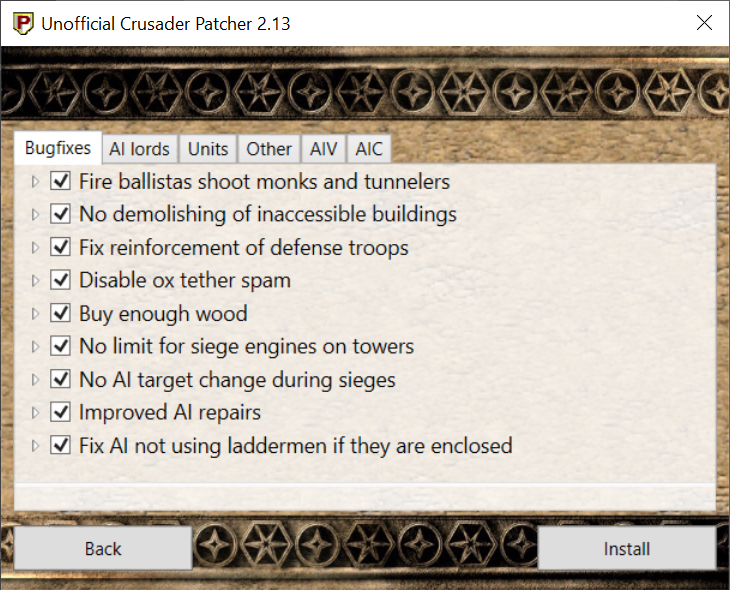
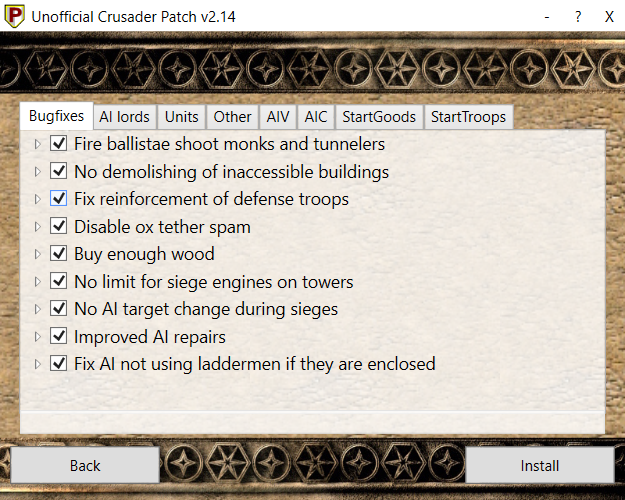
Update of screenshots on website and added to FAQ

diff --git a/getting-started.html b/getting-started.html
@@ -271,49 +271,158 @@
                 </div>
             </div>
             <div class="col-lg-6">
+                <h3>Visual Overview of Installation</h3>
+                <br>
+                <div id="carouselInstallation" class="carousel slide" data-ride="carousel">
+                    <ol class="carousel-indicators">
+                      <li data-target="#carouselInstallation" data-slide-to="0" class="active"></li>
+                      <li data-target="#carouselInstallation" data-slide-to="1"></li>
+                      <li data-target="#carouselInstallation" data-slide-to="2"></li>
+                    </ol>
+                    <div class="carousel-inner">
+                      <div class="carousel-item active">
+                        <div class="d-md-block text-center">
+                            <h4>Step 1: Language Selection</h4>
+                        </div>
+                        <img class="d-block" style="height: 350px; margin: auto;" src="assets/img/language-select.png" alt="First slide">
+                      </div>
+                      <div class="carousel-item">
+                        <div class="d-md-block text-center">
+                            <h4>Step 2: Installation Path Selection</h4>
+                        </div>
+                        <img class="d-block" style="height: 350px; margin: auto;" src="assets/img/window.png" alt="Second slide">
+                      </div>
+                      <div class="carousel-item">
+                        <div class="d-md-block text-center">
+                            <h4>Step 3: Select Your <a href="features.html">Features</a></h4>
+                        </div>
+                        <img class="d-block" style="height: 350px; margin: auto;" src="assets/img/bugfixes.png" alt="Third slide">
+                      </div>
+                    </div>
+                    <br><br>
+                    <a class="carousel-control-prev" href="#carouselInstallation" role="button" data-slide="prev">
+                      <span class="carousel-control-prev-icon" aria-hidden="true"></span>
+                      <span class="sr-only">Previous</span>
+                    </a>
+                    <a class="carousel-control-next" href="#carouselInstallation" role="button" data-slide="next">
+                      <span class="carousel-control-next-icon" aria-hidden="true"></span>
+                      <span class="sr-only">Next</span>
+                    </a>
+                  </div>
+
                 <h3>Visual Overview of Features</h3>
-                <h5><i>See <a href="features.html">features</a> for a full description of each feature</i></h5>
+                <h5><i>See the <a href="features.html">Features</a> page for a full description of each feature</i></h5>
                 <br>
-                <h4>Step 1: Language Selection</h4>
-                <img class="img-installation" id="language-select" src="assets/img/language-select.png">
 
-                <h4>Step 2: Installation Path Selection</h4>
-                <img class="img-installation" src="assets/img/window.png">
+                <div id="carouselFeatures" class="carousel slide" data-ride="carousel">
+                    <div class="carousel-inner">
+                      <div class="carousel-item active">
+                        <div class="d-md-block text-center">
+                            <h4>Bugfixes</h4>
+                        </div>
+                        <img class="d-block" style="height: 400px; margin: auto;" src="assets/img/bugfixes.png" alt="See Features page for description">
+                        <div class="d-md-block text-center">
+                            <h5><i>These include fixes to various gameplay bugs. Most users will want to select all options.</i></h5>
+                        </div>
+                      </div>
 
-                <h4>Step 3: Select Your Features</h4>
-                <h5><i>See <a href="features.html">features</a> for a description of each feature</i></h5>
-                <br>
-                <h4>Bugfixes</h4>
-                <h5><i>These include fixes to various gameplay bugs. Most users will want to select all options.</i></h5>
-                <img class="img-installation" src="assets/img/bugfixes.png">
+                      <div class="carousel-item">
+                        <div class="d-md-block text-center">
+                            <h4>AIV</h4>
+                        </div>
+                        <img class="d-block" style="height: 400px; margin: auto;" src="assets/img/aiv.png" alt="See AI Castle Introduction page for description">
+                        <div class="d-md-block text-center">
+                            <h5><i>Selecting a castle set here will change the way the AI characters build their castles in-game.</i></h5>
+                            <h5><i>See <a href="aiv/overview.html">AI Castle Introduction</a> for more about castle editing</i></h5>
+                        </div>
+                      </div>
 
-                <h4>AIV</h4>
-                <h5><i>Selecting a castle set here will change the way the AI characters build their castles in-game.</i></h5>
-                <h5><i>See <a href="aiv/overview.html">AI Castle Introduction</a> for more about castle editing</i></h5>
-                <img class="img-installation" src="assets/img/aiv.png">
+                      <div class="carousel-item">
+                        <div class="d-md-block text-center">
+                            <h4>AIC</h4>
+                        </div>
+                        <img class="d-block" style="height: 400px; margin: auto;" src="assets/img/aic.png" alt="See AI Character Introduction page for description">
+                        <div class="d-md-block text-center">
+                            <h5><i>Selecting an file here will change the in-game behaviour of the AI.
+                                The boxes that are coloured beige indicate user-provided aic files. 
+                                <br>
+                                vanilla is the AI behaviour as it is defined in Stronghold Crusader (without UCP).
+                                <br>
+                                You may hold Ctrl and click to select/deselect multiple aic files. 
+                                Note that if an AI Character is defined multiple times they are used in order of selection</i></h5>
+                          <h5><i>See <a href="aic/overview.html">AI Character Introduction</a> for more about editing AI behaviour</i></h5>
+                        </div>
+                      </div>
 
-                <h4>AIC</h4>
-                <h5><i>Selecting an file here will change the in-game behaviour of an AI.
-                      The boxes that are coloured beige indicate user-provided aic files. 
-                      <br>
-                      vanilla.aic is the AI behaviour as it is defined in Stronghold Crusader (without UCP).
-                      <br>
-                      You may hold Ctrl and click to select/deselect multiple aic files. 
-                      Note that if an AI Character is defined multiple times the one from the first file (alphabetically) will be used</i></h5>
-                <h5><i>See <a href="aic/overview.html">AI Character Introduction</a> for more about editing AI behaviour</i></h5>
-                <img class="img-installation" src="assets/img/aic.png">
+                      <div class="carousel-item">
+                        <div class="d-md-block text-center">
+                            <h4>AI Lords</h4>
+                        </div>
+                        <img class="d-block" style="height: 400px; margin: auto;" src="assets/img/ai-lords.png" alt="See Features page for description">
+                        <div class="d-md-block text-center">
+                            <h5><i>These include changes to how the AI characters behave.</i></h5>
+                            <br>
+                        </div>
+                      </div>
 
-                <h4>AI Lords</h4>
-                <h5><i>These include changes to how the AI characters behave.</i></h5>
-                <img class="img-installation" src="assets/img/ai-lords.png">
+                      <div class="carousel-item">
+                        <div class="d-md-block text-center">
+                            <h4>Units</h4>
+                        </div>
+                        <img class="d-block" style="height: 400px; margin: auto;" src="assets/img/units.png" alt="See Features page for description">
+                        <div class="d-md-block text-center">
+                            <h5><i>These include changes to the characteristics of certain troops.</i></h5>
+                            <br>
+                        </div>
+                      </div>
 
-                <h4>Units</h4>
-                <h5><i>These include changes to the characteristics of certain troops.</i></h5>
-                <img class="img-installation" src="assets/img/units.png">
+                      <div class="carousel-item">
+                        <div class="d-md-block text-center">
+                            <h4>Other</h4>
+                        </div>
+                        <img class="d-block" style="height: 400px; margin: auto;" src="assets/img/other.png" alt="See Features page for description">
+                        <div class="d-md-block text-center">
+                            <h5><i>These include various quality of life and convenience changes.</i></h5>
+                            <br>
+                        </div>
+                      </div>
 
-                <h4>Other</h4>
-                <h5><i>These include various quality of life and convenience changes.</i></h5>
-                <img class="img-installation" src="assets/img/other.png">
+                      <div class="carousel-item">
+                        <div class="d-md-block text-center">
+                            <h4>StartTroops</h4>
+                        </div>
+                        <img class="d-block" style="height: 400px; margin: auto;" src="assets/img/starttroops.png" alt="">
+                        <div class="d-md-block text-center">
+                            <h5><i>Here you can select a starting unit configuration for AI Lords as well as your Crusader or Arabic Lord.
+                                The vanilla configuration and a UCP patch configuration are provided for your convenience.</i></h5>
+                            <br>
+                        </div>
+                      </div>
+
+                      <div class="carousel-item">
+                        <div class="d-md-block text-center">
+                            <h4>StartGoods</h4>
+                        </div>
+                        <img class="d-block" style="height: 400px; margin: auto;" src="assets/img/startgoods.png" alt="">
+                        <div class="d-md-block text-center">
+                            <h5><i>Here you can select a starting resource configuration that will apply for all human and AI players in the game.
+                                The vanilla configuration is provided for your convenience.
+                            </i></h5>
+                            <br>
+                        </div>
+                      </div>
+
+                    </div>
+
+                    <a class="carousel-control-prev" href="#carouselFeatures" role="button" data-slide="prev">
+                        <span class="carousel-control-prev-icon" aria-hidden="true"></span>
+                        <span class="sr-only">Previous</span>
+                    </a>
+                    <a class="carousel-control-next" href="#carouselFeatures" role="button" data-slide="next">
+                        <span class="carousel-control-next-icon" aria-hidden="true"></span>
+                        <span class="sr-only">Next</span>
+                    </a>
+                </div>
             </div>
         </div>
     </div>
@@ -326,5 +435,6 @@
 <script src="https://cdnjs.cloudflare.com/ajax/libs/popper.js/1.12.9/umd/popper.min.js" integrity="sha384-ApNbgh9B+Y1QKtv3Rn7W3mgPxhU9K/ScQsAP7hUibX39j7fakFPskvXusvfa0b4Q" crossorigin="anonymous"></script>
 <script src="https://maxcdn.bootstrapcdn.com/bootstrap/4.0.0/js/bootstrap.min.js" integrity="sha384-JZR6Spejh4U02d8jOt6vLEHfe/JQGiRRSQQxSfFWpi1MquVdAyjUar5+76PVCmYl" crossorigin="anonymous"></script>
 <script src="assets/js/index.js"></script>
+<script src="assets/js/carousel.js"></script>
 
 </html>

diff --git a/assets/js/carousel.js b/assets/js/carousel.js
@@ -1,0 +1,38 @@
+window.onload = function() { 
+    carouselNormalization(); 
+}
+
+function carouselNormalization() {
+    var items = $('#carouselInstallation .carousel-item'), //grab all slides
+      heights = [], //create empty array to store height values
+      tallest; //create variable to make note of the tallest slide
+  
+    if (items.length) {
+      function normalizeHeights() {
+        items.each(function() { //add heights to array
+          heights.push($(this).height());
+        });
+        tallest = Math.max.apply(null, heights); //cache largest value
+        items.each(function() {
+          $(this).css('min-height', tallest + 'px');
+        });
+        $(".carousel-control-prev-icon").each(function(){
+            $(this).css('position', 'absolute');
+            $(this).css('top', tallest/2 + $(this).height());
+        })
+        $(".carousel-control-next-icon").each(function(){
+            $(this).css('position', 'absolute');
+            $(this).css('top', tallest/2 + $(this).height());
+        })
+      };
+      normalizeHeights();
+  
+      $(window).on('resize orientationchange', function() {
+        tallest = 0, heights.length = 0; //reset vars
+        items.each(function() {
+          $(this).css('min-height', '0'); //reset min-height
+        });
+        normalizeHeights(); //run it again 
+      });
+    }
+  }

diff --git a/faq.html b/faq.html
@@ -72,6 +72,14 @@
           </div>
 
           <div class="card faq-question">
+            <h5>Can you change the map size?</h5>
+            <hr class="faq-question-divider">
+            <div class="card-body faq-question-body">
+                No we are not able to change it. Firefly isn`t able to change it either, without a big amount of work.
+            </div>
+          </div>
+
+          <div class="card faq-question">
             <h5>Can you include <i>&lt;insert feature name&gt;</i> feature?</h5>
             <hr class="faq-question-divider">
             <div class="card-body faq-question-body">
